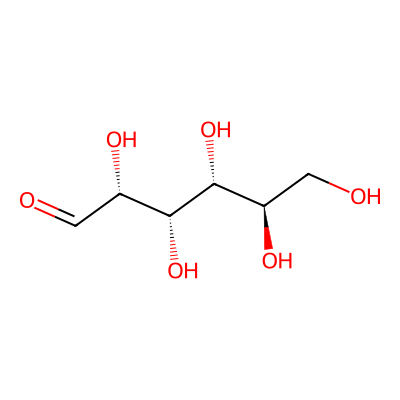
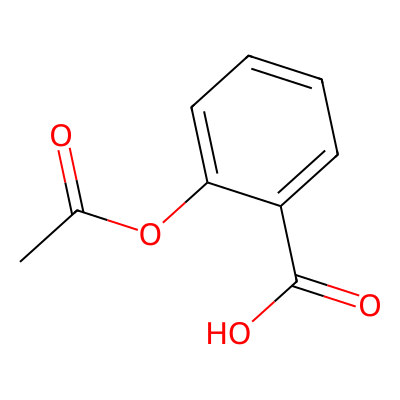
update: improve LLM output

diff --git a/checkpoints.md b/checkpoints.md
@@ -40,12 +40,35 @@ wrong grade) whenever the SMILES being graded isn't in the exact order
 expected. Matters because DECIMER's predicted SMILES is not guaranteed to
 match the original ordering.
  
-**Fischer projections -- unconfirmed, high priority to test.** Could not
-confirm whether DECIMER supports this drawing convention at all. Fischer
-projections are a completely different visual convention (horizontal/
-vertical line meaning vs. wedge/dash) and are central to how stereochemistry
-is actually taught for sugars and amino acids -- exactly this app's
-subject matter. Untested so far.
+**Fischer projections (pure flat-line) -- confirmed gap, worse than
+expected.** Tested on D-glucose (4 stereocenters, plain-line cross layout,
+no wedges/dashes): DECIMER did not just drop the stereochemistry, it
+misread the basic connectivity. Predicted formula was C5H10O8 against the
+correct C6H12O6 -- missing a whole carbon, three backbone carbons predicted
+with two oxygens each instead of one, and a hallucinated tritium ([3H])
+label on the aldehyde hydrogen. Zero stereocenters captured. Separately
+confirmed (DECIMER's own documentation/community reports) that it *can*
+parse a Fischer-style cross layout when the bonds are drawn with explicit
+wedge/dash marks -- the failure is specific to pure flat-line notation, not
+the cross layout itself. No image-preprocessing fix exists for this: RDKit
+has no image-reading capability at all (it only ever generates images, never
+reads them), and the gap isn't image quality -- DECIMER appears to have
+never learned the flat-line convention, so no amount of cleanup/cropping
+changes that. Converting flat lines to wedge/dash programmatically before
+feeding DECIMER would require already knowing the correct stereochemistry,
+which is circular for any real (unknown-answer) input -- only useful as a
+sanity check on molecules whose answer is already known.
+ 
+**Future step (not started): a dedicated Fischer-projection parser that
+bypasses DECIMER entirely for this input type.** Detect the cross layout
+directly via image processing (locate the vertical/horizontal line
+intersection), OCR the four substituent labels at top/bottom/left/right,
+then hardcode the Fischer convention rule (vertical = away from viewer,
+horizontal = toward viewer) to deterministically derive stereochemistry --
+same "no model guessing, deterministic rule" philosophy as the RDKit
+validation layer, just applied to image layout instead of a SMILES string.
+This is a standalone computer-vision + OCR project, not a quick addition --
+sequence after the core tutoring layer (Milestone 3/5) is solid, not before.
  
 **Hand-drawn / photographed images -- untested.** All testing so far used
 clean, computer-generated images (the easiest case). DECIMER has a
